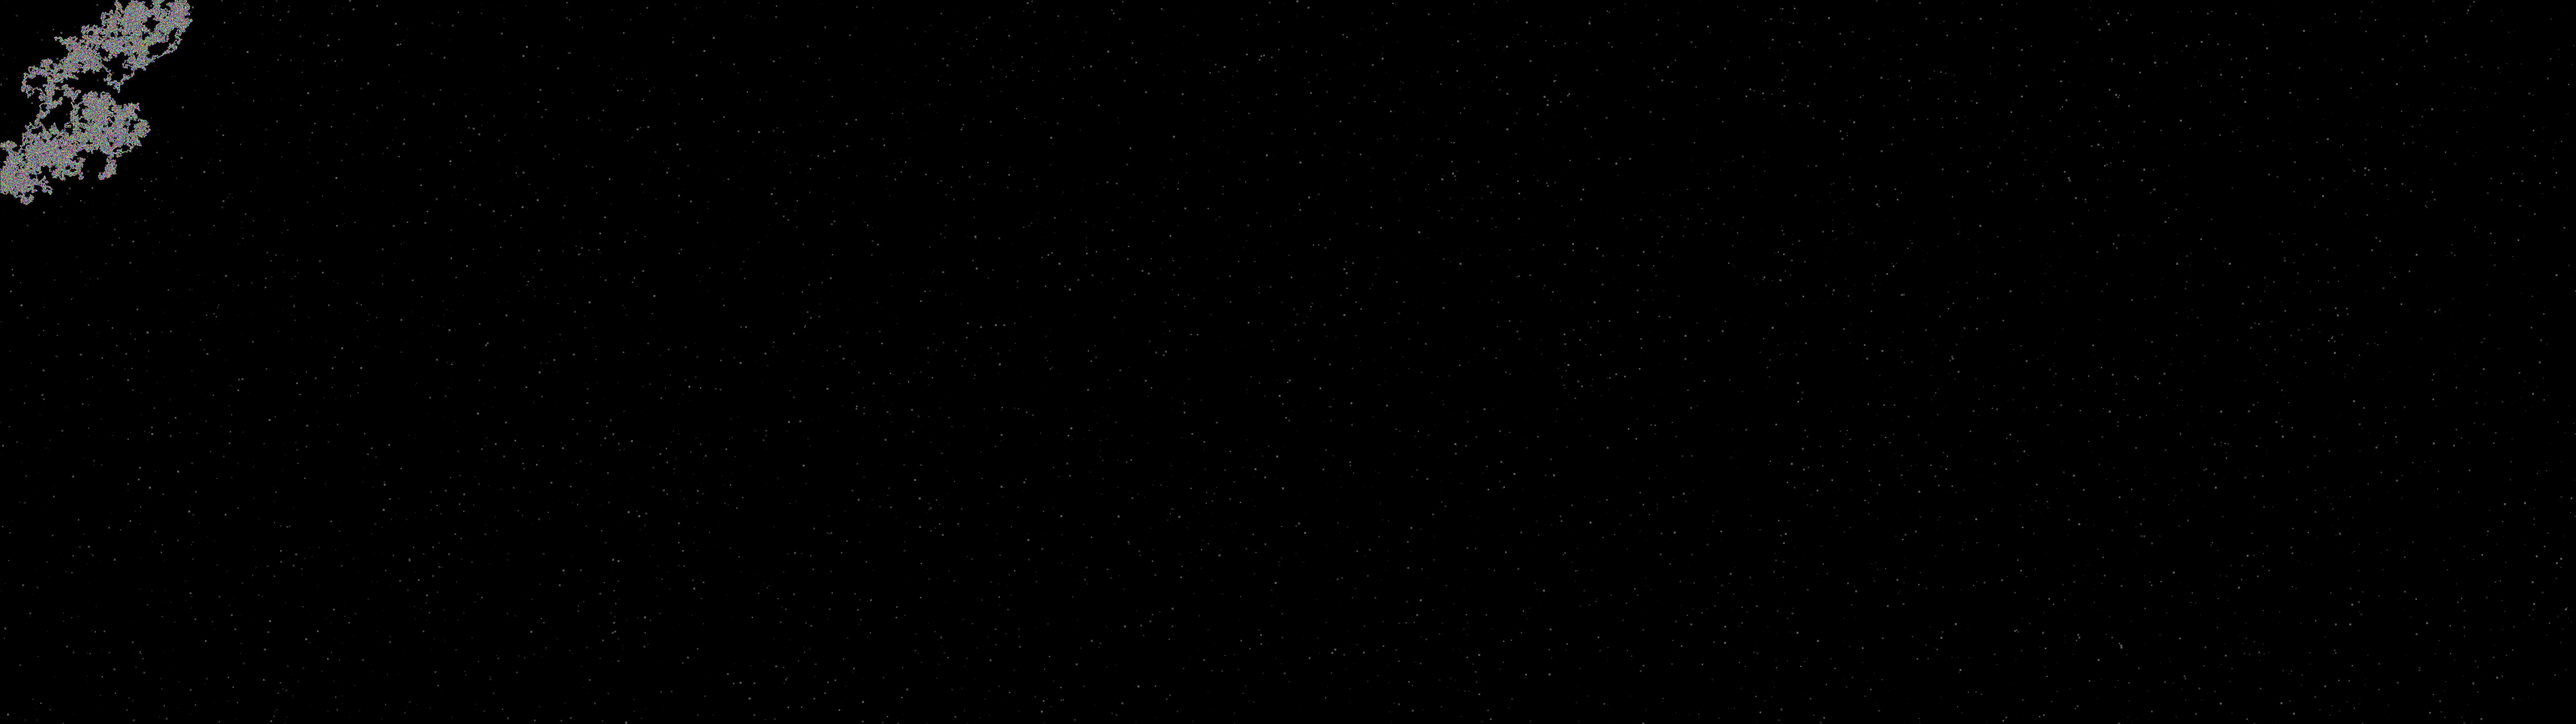
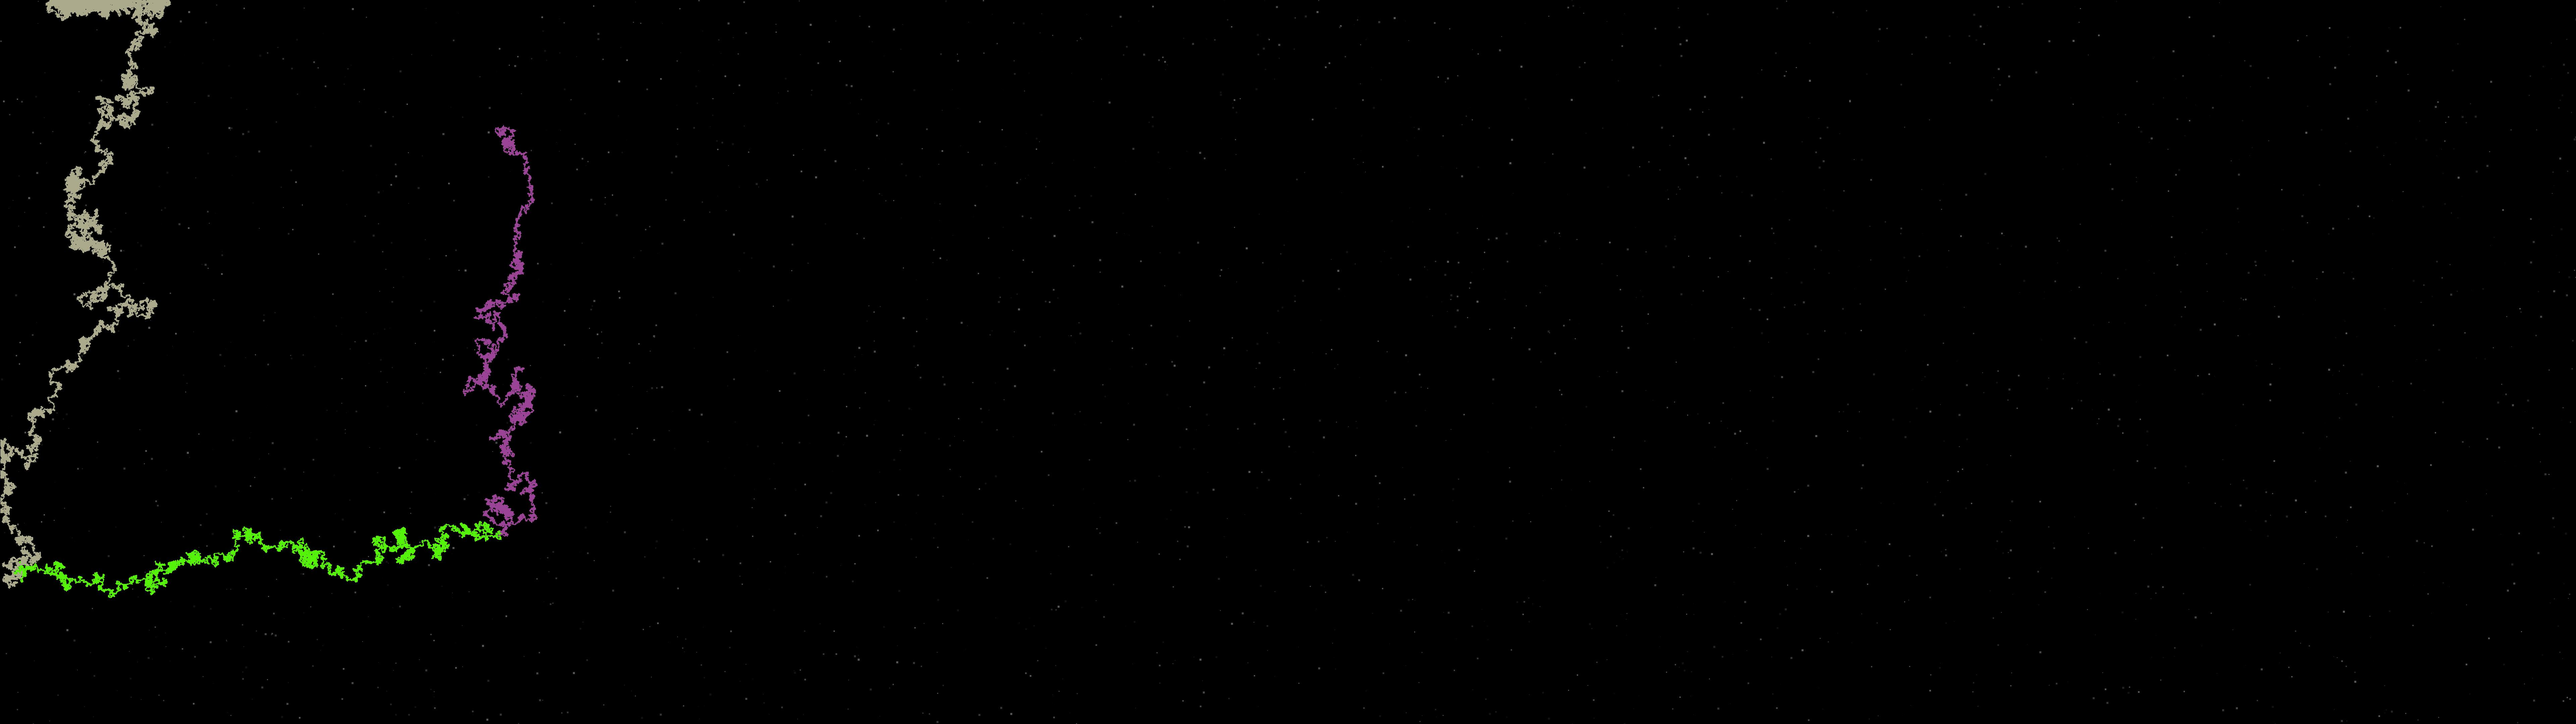
created the major-manipulation breakthrough for improvisation

diff --git a/third/run.py b/third/run.py
@@ -13,11 +13,11 @@ def RandomColour():
     return colour
 
 
-def Progress():
+def Progress(optional_output=False):
     global current_progress
     filename = "development_progress/PROGRESS_{0}.jpg".format(current_progress)
     im.save(filename)
-    print("SAVED PROGRESS {0}".format(current_progress))
+    print("-- sp -- :: {0}".format(optional_output))
     current_progress = current_progress + 1
 
 #// -------------------------------------
@@ -67,32 +67,102 @@ class Bodies:
 
     #// Purpose of funtion is to track itself randomly and create a completely random
     #// set of lines.
-    def TrackingLine(self):
+    #// down_weight is a value which is then divided by 10000 to get the addition
+    #// to creating the excess that the down movement is given leverage to, meaning
+    #// 100 means it is 1.01 (1+100/10000) quicker.
+    def TrackingLine(self, weights):
         x = random.randint(0, size[0])
         y = 0
-        self.ColourPixelAt(x, y, 1, RandomColour())
+        #
+        # weights are scaled as up,down,left,right
+        # self.ColourPixelAt(x, y, 1, "#ffffff")
         iterations = 0
+        total_weight = sum(weights)
+        # print(total_weight)
+        # print("   -- "+str(movement))
+        predefinedColour = RandomColour()
+
         while y != size[1]:
-            movement = random.randint(1, 4)
-            #safety net
-            if movement == 1: #LEFT
-                x = x - 1 if x - 1 > 0 else x + 1
-                # x = x - 1
-            elif movement == 2: #RIGHT
-                x = x + 1 if x + 1 < size[0] else x - 1
-                # x = x + 1
-            elif movement == 3: #UP
+            movement = random.uniform(0, total_weight)
+            if movement < weights[0]: #UP
                 y = y - 1 if y + 1 > 0 else y + 1
-                # y = y + 1
-            else: #DOWN
+                y = y - 1
+            elif movement < weights[0]+weights[1]: #DOWN
                 y = y + 1
-            # if iterations > 1500000:
-            #     break
-            self.ColourPixelAt(x, y, 1, RandomColour())
+            elif movement < weights[0]+weights[1]+weights[2]: #LEFT
+                x = x - 1 if x - 1 > 0 else x + 1
+                x = x - 1
+            else: #RIGHT
+                x = x + 1 if x + 1 < size[0] else x - 1
+                x = x + 1
+
+            self.ColourPixelAt(x, y, 1, predefinedColour)
             iterations = iterations + 1
             if iterations % 500000 == 0:
                 Progress()
         print("Completion took {0} iterations...".format(iterations))
+
+    # Setting up a presentation for the tracking line, to change at certain
+    # iterations.
+    def SAS_TrackingLine(self, presentation, xy=False):
+        if xy == False:
+            x = random.randint(0, size[0])
+            y = 0
+        else:
+            x = xy[0]
+            y = xy[1]
+        #
+        iter = 0
+        movements = [0,0,0,0]
+        current_weightset = []
+        predefinedColour = ""
+        break_loop = False
+        while y != size[1]:
+            for i in range(0, len(presentation)):
+                if iter == presentation[i]["time"]:
+                    old_weightset = current_weightset
+                    old_colour = predefinedColour
+                    predefinedColour = RandomColour()
+                    current_weightset = presentation[i]["weights"]
+                    #saving into saves variable
+                    if current_weightset == "save_xy":
+                        saves[presentation[i]["save_as"]] = [x,y]
+                        print("Saved xy to {0}".format(presentation[i]["save_as"]))
+                        current_weightset = old_weightset
+                        predefinedColour  = old_colour
+                    #end the loop execution
+                    if current_weightset == "stop":
+                        print("Hit a stop, finished!")
+                        break_loop = True
+
+            if break_loop:
+                break
+
+            movement = random.uniform(0, sum(current_weightset))
+            # print(movement)
+            if movement < current_weightset[0]: #UP
+                y = y - 1 if y + 1 > 0 else y
+                # y = y - 1
+                movements[0]+=1
+            elif movement < current_weightset[0]+current_weightset[1]: #DOWN
+                y = y + 1
+                movements[1]+=1
+            elif movement < current_weightset[0]+current_weightset[1]+current_weightset[2]: #LEFT
+                x = x - 1 if x - 1 > 0 else x + 1
+                # x = x - 1
+                movements[2]+=1
+            else: #RIGHT
+                x = x + 1 if x + 1 < size[0] else x - 1
+                # x = x + 1
+                movements[3]+=1
+
+            self.ColourPixelAt(x, y, 1, predefinedColour)
+            iter = iter + 1
+            if iter % 500000 == 0:
+                Progress(movements)
+
+        # print(presentation)
+        print("Completion took {0} iterations...".format(iter))
 
 
 #// Image setup
@@ -100,18 +170,140 @@ size = [7680, 2160]
 im = Image.open("op.jpg")
 draw = ImageDraw.Draw(im)
 current_progress = 0
+#// A dictionary which is saved to with
+#// temporary values of x/y for differing operations
+saves = {}
 
 #// Background
 BG = BG()
-BG.stars(7500)
+BG.stars(int((size[0]*size[1])/4000))
 
 #// Bodies
 Bodies = Bodies()
-# Bodies.GenerateNodes("#c21f1f")
-# Bodies.GenerateNodes("#c21f1f")
-# Bodies.GenerateNodes("#c21f1f")
-for i in range(0, 1):
-    Bodies.TrackingLine()
 
+
+
+
+#J
+Bodies.SAS_TrackingLine([
+    {
+        "time": 0,
+        "weights": [1000,1050,1000,1000]
+    },
+    {
+        "time": 90000,
+        "weights": [980,980,1070,1000]
+    },
+    {
+        "time": 150000,
+        "weights": [1050,1000,1000,1000]
+    },
+    {
+        "time": 200000,
+        "weights": "stop"
+    }
+], [1500, 400])
+
+
+
+
+#A
+Bodies.SAS_TrackingLine([
+    {
+        "time": 0,
+        "weights": [1050,1000,1000,1000]
+    },
+    {
+        "time": 50000,
+        "weights": "save_xy",
+        "save_as": "a_mid"
+    },
+    {
+        "time": 100000,
+        "weights": [980,980,1000,1050]
+    },
+    {
+        "time": 150000,
+        "weights": [1000,1050,1000,1000]
+    },
+    {
+        "time": 250000,
+        "weights": "stop"
+    }
+], [2250, 1600])
+#A-
+Bodies.SAS_TrackingLine([
+    {
+        "time": 0,
+        "weights": [1000,1000,1000,1050]
+    },
+    {
+        "time": 70000,
+        "weights": "stop"
+    }
+], saves["a_mid"])
+
+
+
+#C
+Bodies.SAS_TrackingLine([
+    {
+        "time": 0,
+        "weights": [1000,1000,1070,1000]
+    },
+    {
+        "time": 60000,
+        "weights": [1000,1050,1000,1000]
+    },
+    {
+        "time": 150000,
+        "weights": [1000,1000,1000,1050]
+    },
+    {
+        "time": 250000,
+        "weights": "stop"
+    }
+], [5000, 400])
+
+
+
+#K
+Bodies.SAS_TrackingLine([
+    {
+        "time": 0,
+        "weights": [1000,1050,1000,1000]
+    },
+    {
+        "time": 50000,
+        "weights": "save_xy",
+        "save_as": "k_middle"
+    },
+    {
+        "time": 100000,
+        "weights": "stop"
+    }
+], [6000, 400])
+#k-topright
+Bodies.SAS_TrackingLine([
+    {
+        "time": 0,
+        "weights": [1050,1000,1000,1050]
+    },
+    {
+        "time": 60000,
+        "weights": "stop"
+    }
+], saves["k_middle"]) #got the coords of the middle point of K
+#k-bottom-right
+Bodies.SAS_TrackingLine([
+    {
+        "time": 0,
+        "weights": [1000,1050,1000,1050]
+    },
+    {
+        "time": 60000,
+        "weights": "stop"
+    }
+], saves["k_middle"]) #got the coords of the middle point of K
 
 im.save("op-af.jpg")
